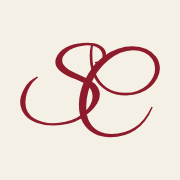
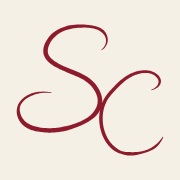
SC monogram traced from the brand sheet (#44)
The first version was drawn from a stock script font and didn't match.
This one is traced from Lewis's Secondary logo, so the S and C sit and
cross the same way. App icons regenerated.

Claude-Session: https://claude.ai/code/session_01PbxP4cWN9vx1d1DnN28Ydv

Changed region(s): [[0.0833, 0.1111, 0.9167, 0.8889]]

diff --git a/app/src/lib/logo.ts b/app/src/lib/logo.ts
@@ -1,5 +1,5 @@
 // The Sodalis Collective logos (Lewis's brand sheet, 18 Oct), as outlines so they need no fonts.
-// Primary 1a: SODALIS over a script "Collective". Secondary: the SC monogram.
+// Primary 1a: SODALIS over a script "Collective". Secondary: the SC monogram, traced from the brand sheet.
 
 export const PRIMARY_LOGO = {
   viewBox: '-2 26 245 119',
@@ -7,6 +7,6 @@ export const PRIMARY_LOGO = {
 }
 
 export const MONOGRAM = {
-  viewBox: '1.7 -9.8 159.7 159.7',
-  d: 'M41.3 109.2Q31.5 109.2 23.4 106.3Q15.2 103.4 10.2 97.8Q5.2 92.1 4.7 83.8Q4.5 80.4 5.8 76.3Q7.1 72.2 9.5 68.2Q11.8 64.1 15.1 60.8Q18.3 57.6 22 55.9Q22.3 55.7 23 55.6Q23.6 55.5 23.9 55.5Q24.5 55.5 24.5 55.8Q24.5 56.3 23 57.4Q18.8 60.7 16.1 65Q13.3 69.3 11.9 74.2Q10.5 79.1 10.5 84.1Q10.5 90 13.1 94.2Q15.6 98.5 19.9 101.2Q24.2 104 29.7 105.3Q35.2 106.6 41.2 106.6Q47.9 106.6 54.5 105.1Q61 103.6 66.4 100.8Q74.7 96.4 79.6 89.9Q84.4 83.4 84.4 77Q84.4 73.6 83 70.5Q81.5 67.4 78.3 64.9Q75.9 63 72.5 61.3Q69 59.6 65.2 58Q61.3 56.4 57.6 54.8Q53.9 53.1 51.1 51.2Q47.1 48.5 45.2 45.4Q43.4 42.3 43.4 39.2Q43.4 35.5 45.6 32Q47.7 28.5 51.5 25.6Q55.2 22.8 59.9 21.2Q64 19.8 68.8 19Q73.7 18.2 78.4 18.2Q82.3 18.2 85.9 18.7Q89.4 19.3 92.1 20.7Q95.5 22.3 97.3 24.9Q99.1 27.6 99.1 30.5Q99.1 34.5 95.5 37.5Q94.2 38.5 92.6 39.3Q91 40.2 88.8 40.8Q88.4 40.9 87.9 40.9Q86.7 40.9 86.7 40.2Q86.7 39.8 87.3 39.3Q88 38.9 89.3 38.8Q92.3 38.4 93.9 36.5Q95.4 34.6 95.4 32.1Q95.4 29.5 93.7 26.9Q91.9 24.4 88.3 22.6Q84.7 20.9 79.1 20.9Q75.9 20.9 72.1 21.6Q68.2 22.3 63.7 23.9Q58.2 25.8 54.6 29.5Q50.9 33.2 50.9 37.4Q50.9 40 52.7 42.6Q54.4 45.3 58.3 47.7Q61.6 49.7 65.8 51.6Q70 53.6 74.3 55.5Q78.6 57.5 82.1 59.7Q87.6 63.1 90 67Q92.4 70.9 92.4 75Q92.4 79.8 89.6 84.7Q86.7 89.5 82.1 93.8Q77.5 98 72 101.3Q65.6 105.1 57.6 107.2Q49.5 109.2 41.3 109.2ZM104.2 122Q94 122 86.1 117.9Q78.2 113.8 73.7 105.8Q69.3 97.8 69.3 86.1Q69.3 79.2 71.1 72.3Q72.9 65.3 76 58.9Q79.1 52.5 82.9 47.2Q81.2 40.4 81.2 32.6Q81.2 26.7 82.5 21.3Q83 19.7 84.1 19.7Q85 19.7 84.9 20.8Q84.6 23.1 84.3 25.6Q84.1 28.1 84.1 31.6Q84.1 38.1 85.3 43.9Q86.5 42.5 87.6 41.2Q92.2 36.2 98.4 31.8Q104.7 27.3 112.4 24.7Q120.1 22 128.7 22Q136.7 22 143.5 24.9Q150.2 27.9 154.3 33.4Q158.4 39 158.4 46.8Q158.4 51.8 155.7 56.9Q153.1 62.1 148.2 66.4Q143.4 70.7 136.5 73.4Q129.6 76.1 121.1 76.1Q109.9 76.1 100.6 71.1Q91.3 66.2 86.1 56.1Q81.6 64.1 79.5 72.3Q77.4 80.4 77.4 87.8Q77.4 98.6 81 105.3Q84.6 112 90.9 115.2Q97.2 118.4 105.4 118.4Q119.9 118.4 131 111.1Q142 103.7 149.2 88.4Q150.5 88.4 150.5 89.4Q143.6 106 131.5 114Q119.5 122 104.2 122ZM90.9 48.6Q89.5 50.6 88.1 52.8Q92.1 62 100.1 67.6Q108.2 73.2 120.4 73.2Q128.1 73.2 134.2 70.8Q140.3 68.4 144.5 64.5Q148.7 60.6 151 55.8Q153.2 51.1 153.2 46.3Q153.2 40.3 150 35.9Q146.8 31.4 141.3 28.9Q135.8 26.3 128.9 26.3Q122 26.3 115 29.2Q108 32.2 101.7 37.2Q95.5 42.2 90.9 48.6Z',
+  viewBox: '44.9 0.3 441.5 441.5',
+  d: 'M300.2 104.0L303.8 101.4L306.9 98.6L309.6 95.7L311.9 92.6L313.8 89.5L315.4 86.3L316.5 83.1L317.4 79.8L317.8 76.6L318.0 73.3L317.8 70.0L317.3 66.8L316.6 63.7L315.6 60.6L314.4 57.6L313.0 54.7L311.3 51.9L309.5 49.3L307.3 47.0L305.0 44.8L302.6 42.8L300.0 41.0L297.3 39.4L294.5 37.9L291.6 36.6L288.7 35.4L285.6 34.3L282.5 33.3L279.4 32.5L276.2 31.8L272.9 31.2L269.6 30.7L266.3 30.2L263.0 29.8L259.6 29.4L256.3 29.0L252.9 28.7L249.5 28.4L246.1 28.1L242.7 28.0L239.4 27.9L236.0 27.9L232.6 28.0L229.2 28.2L225.8 28.4L222.4 28.7L219.1 29.0L215.7 29.4L212.4 29.8L209.0 30.3L205.7 30.8L202.4 31.5L199.2 32.3L196.0 33.1L192.8 34.2L189.7 35.3L186.6 36.4L183.6 37.7L180.5 38.9L177.5 40.3L174.6 41.7L171.7 43.2L168.8 44.8L165.9 46.4L163.1 48.2L160.4 50.1L157.7 52.0L155.1 54.1L152.6 56.3L150.2 58.7L147.9 61.2L145.7 63.8L143.6 66.5L141.6 69.3L139.6 72.1L137.8 75.1L136.1 78.0L134.5 81.1L133.0 84.1L131.7 87.3L130.7 90.5L129.7 93.7L129.0 97.0L128.5 100.2L128.2 103.5L128.1 106.8L128.3 110.1L128.7 113.4L129.4 116.6L130.4 119.7L131.7 122.8L133.1 125.7L134.8 128.5L136.8 131.1L138.9 133.6L141.1 136.1L143.5 138.4L146.0 140.7L148.5 142.9L151.2 145.0L154.1 147.0L156.9 148.9L159.9 150.8L162.9 152.6L166.0 154.3L169.1 155.9L172.2 157.4L175.4 158.9L178.5 160.4L181.6 161.8L184.7 163.3L187.7 164.7L190.7 166.1L193.8 167.5L196.8 168.7L199.8 170.0L202.8 171.2L205.8 172.4L208.7 173.6L211.7 174.7L214.6 175.9L217.4 177.1L220.3 178.3L223.1 179.5L225.8 180.7L228.6 181.9L231.3 183.1L233.9 184.4L236.6 185.7L239.1 187.0L241.7 188.3L244.2 189.7L246.6 191.2L249.0 192.6L251.4 194.2L253.7 195.7L255.9 197.4L258.1 199.1L260.3 200.9L262.4 202.7L264.5 204.6L266.5 206.6L268.4 208.7L270.3 210.8L272.2 213.1L274.0 215.5L275.7 217.9L277.4 220.5L279.0 223.1L280.6 225.8L282.0 228.6L283.3 231.4L284.5 234.2L285.6 237.0L286.4 239.8L287.1 242.5L287.6 245.2L288.0 247.8L288.2 250.4L288.3 253.0L288.2 255.6L288.0 258.1L287.7 260.6L287.2 263.1L286.6 265.5L285.8 267.9L285.0 270.3L284.0 272.7L282.9 275.0L281.7 277.2L280.3 279.4L278.9 281.6L277.4 283.7L275.7 285.8L274.1 287.9L272.4 290.0L270.5 292.0L268.6 293.9L266.5 295.8L264.4 297.6L262.1 299.4L259.8 301.1L257.4 302.8L254.9 304.4L252.4 306.0L249.8 307.5L247.1 308.9L244.4 310.3L241.7 311.7L238.9 313.0L236.0 314.2L233.2 315.5L230.3 316.6L227.4 317.8L224.5 318.9L221.5 320.0L218.6 321.0L215.6 322.0L212.7 322.9L209.7 323.8L206.7 324.6L203.8 325.3L200.8 326.0L197.8 326.7L194.8 327.4L191.8 328.1L188.9 328.8L185.9 329.4L182.9 330.0L179.9 330.6L176.9 331.1L173.9 331.5L170.9 331.9L167.9 332.3L164.8 332.6L161.8 332.8L158.7 333.0L155.7 333.2L152.6 333.3L149.5 333.4L146.5 333.4L143.4 333.4L140.3 333.3L137.1 333.2L134.0 333.1L130.9 332.9L127.7 332.7L124.5 332.4L121.4 332.0L118.2 331.5L115.1 330.9L112.0 330.2L108.9 329.4L105.9 328.7L102.9 327.9L99.9 327.0L97.1 326.0L94.3 324.9L91.5 323.8L88.9 322.6L86.3 321.4L83.8 320.0L81.4 318.6L79.1 317.0L76.9 315.3L74.9 313.5L72.9 311.6L71.1 309.6L69.4 307.4L67.8 305.2L66.3 302.8L64.9 300.4L63.7 298.0L62.6 295.4L61.7 292.9L60.8 290.3L60.1 287.6L59.6 285.0L59.2 282.4L58.9 279.7L58.9 277.1L59.0 274.5L59.4 271.9L60.1 269.3L60.9 266.9L62.0 264.5L63.3 262.1L64.8 259.8L66.4 257.5L68.2 255.3L70.2 253.2L72.4 251.1L74.7 249.2L77.1 247.3L79.7 245.6L82.3 243.9L85.0 242.3L87.8 240.8L90.6 239.4L93.5 238.1L96.5 236.9L99.4 235.7L102.4 234.6L105.4 233.7L108.4 232.8L111.4 232.0L114.5 231.3L117.5 230.6L120.6 230.2L123.7 229.8L126.8 229.5L130.0 229.4L133.1 229.3L136.3 229.3L139.4 229.3L142.6 229.4L145.8 229.5L149.0 229.7L152.2 229.7L152.4 228.1L149.2 227.4L146.0 227.0L142.8 226.6L139.6 226.3L136.4 226.0L133.2 225.9L129.9 225.8L126.7 225.8L123.5 225.9L120.2 226.0L117.0 226.2L113.7 226.5L110.5 226.9L107.2 227.4L103.9 228.0L100.7 228.8L97.4 229.7L94.2 230.7L91.0 232.0L87.8 233.3L84.7 234.8L81.7 236.4L78.7 238.1L75.9 240.0L73.1 242.0L70.5 244.0L68.0 246.2L65.6 248.4L63.3 250.8L61.1 253.2L59.1 255.7L57.3 258.4L55.7 261.1L54.2 264.0L53.0 267.0L52.0 270.0L51.2 273.1L50.6 276.3L50.2 279.5L49.9 282.7L49.9 286.0L50.2 289.3L50.6 292.6L51.3 295.9L52.3 299.1L53.4 302.3L54.7 305.4L56.2 308.5L57.9 311.5L59.8 314.3L61.8 317.1L64.0 319.7L66.4 322.3L68.9 324.7L71.5 326.9L74.3 329.0L77.1 330.9L80.0 332.7L83.0 334.4L86.2 335.9L89.3 337.3L92.6 338.5L95.9 339.6L99.2 340.6L102.6 341.5L106.0 342.3L109.4 343.0L112.8 343.5L116.3 344.0L119.7 344.4L123.1 344.9L126.4 345.3L129.8 345.7L133.1 346.0L136.5 346.3L139.8 346.5L143.1 346.6L146.4 346.6L149.7 346.6L153.0 346.5L156.3 346.4L159.6 346.2L162.8 346.0L166.1 345.7L169.3 345.3L172.5 344.9L175.7 344.4L178.9 343.9L182.1 343.4L185.3 342.9L188.5 342.3L191.7 341.7L194.8 340.9L198.0 340.2L201.1 339.3L204.2 338.3L207.2 337.4L210.3 336.3L213.3 335.2L216.4 334.2L219.4 333.1L222.5 332.0L225.5 330.8L228.6 329.7L231.6 328.5L234.6 327.2L237.6 326.0L240.6 324.7L243.6 323.3L246.6 321.9L249.5 320.5L252.4 319.0L255.3 317.4L258.1 315.8L260.9 314.2L263.7 312.5L266.4 310.7L269.1 308.9L271.7 307.0L274.2 305.1L276.7 303.1L279.1 301.0L281.5 298.8L283.8 296.6L286.0 294.2L287.9 291.7L289.8 289.2L291.6 286.5L293.2 283.8L294.7 281.0L296.1 278.1L297.3 275.2L298.4 272.2L299.4 269.1L300.1 266.0L300.7 262.8L301.2 259.6L301.5 256.3L301.6 253.0L301.5 249.7L301.2 246.3L300.7 242.9L300.0 239.5L299.1 236.1L298.0 232.7L296.8 229.3L295.4 226.0L293.9 222.7L292.2 219.5L290.5 216.4L288.6 213.4L286.7 210.4L284.7 207.6L282.6 204.9L280.4 202.2L278.2 199.7L276.0 197.3L273.7 195.0L271.3 192.8L268.9 190.7L266.4 188.7L263.9 186.8L261.3 184.9L258.7 183.1L256.1 181.4L253.5 179.8L250.8 178.2L248.0 176.7L245.3 175.2L242.5 173.8L239.7 172.4L236.9 171.1L234.0 169.8L231.2 168.5L228.3 167.3L225.4 166.0L222.5 164.8L219.6 163.6L216.6 162.4L213.7 161.2L210.7 160.1L207.8 158.9L204.8 157.7L201.8 156.4L198.9 155.2L195.9 154.0L192.9 152.8L189.9 151.6L186.9 150.3L183.9 148.9L181.0 147.5L178.1 145.9L175.2 144.4L172.3 142.7L169.6 141.1L166.8 139.5L164.2 137.8L161.6 136.1L159.1 134.3L156.8 132.5L154.6 130.8L152.5 128.9L150.5 127.0L148.8 125.1L147.3 123.1L145.9 121.2L144.7 119.2L143.7 117.2L142.9 115.2L142.2 113.2L141.8 111.1L141.5 108.9L141.4 106.6L141.4 104.3L141.7 101.9L142.1 99.5L142.6 96.9L143.3 94.4L144.2 91.9L145.2 89.3L146.3 86.7L147.5 84.1L148.8 81.5L150.3 79.0L152.0 76.6L153.7 74.2L155.6 71.9L157.5 69.7L159.4 67.6L161.5 65.5L163.5 63.5L165.6 61.6L167.8 59.7L170.0 57.9L172.3 56.2L174.7 54.5L177.2 52.9L179.7 51.5L182.3 50.1L184.9 48.8L187.7 47.6L190.4 46.5L193.3 45.5L196.2 44.6L199.1 43.8L202.0 43.0L205.0 42.2L208.0 41.4L211.0 40.7L214.1 40.1L217.2 39.5L220.3 39.0L223.4 38.6L226.6 38.3L229.8 38.0L233.0 37.8L236.2 37.7L239.5 37.6L242.7 37.5L245.9 37.4L249.2 37.4L252.4 37.4L255.7 37.5L258.9 37.7L262.1 37.9L265.3 38.2L268.4 38.6L271.5 39.1L274.5 39.7L277.4 40.4L280.3 41.2L283.1 42.1L285.8 43.0L288.4 44.0L290.9 45.1L293.3 46.4L295.6 47.8L297.7 49.3L299.7 50.9L301.6 52.7L303.4 54.5L305.2 56.5L306.9 58.5L308.4 60.8L309.7 63.1L310.8 65.6L311.7 68.1L312.3 70.8L312.7 73.5L312.8 76.3L312.7 79.1L312.3 82.0L311.5 84.9L310.4 87.9L309.0 90.8L307.1 93.7L304.8 96.7L302.1 99.5L299.0 102.5ZM446.2 221.8L449.3 221.0L452.1 220.1L454.7 219.0L457.2 217.9L459.5 216.7L461.7 215.4L463.7 214.1L465.5 212.7L467.2 211.2L468.7 209.6L470.1 208.0L471.2 206.3L472.2 204.5L473.0 202.6L473.7 200.8L474.1 198.9L474.4 197.0L474.5 195.0L474.4 193.1L474.0 191.2L473.6 189.4L473.0 187.6L472.2 185.8L471.4 184.2L470.4 182.5L469.3 181.0L468.1 179.4L466.8 178.0L465.4 176.6L463.9 175.3L462.4 174.1L460.8 172.9L459.2 171.8L457.5 170.7L455.8 169.8L454.0 168.8L452.2 168.0L450.4 167.2L448.6 166.5L446.7 165.8L444.9 165.2L443.0 164.7L441.0 164.3L439.1 163.9L437.1 163.6L435.2 163.4L433.2 163.2L431.2 163.1L429.2 163.0L427.2 163.0L425.2 163.0L423.2 163.1L421.2 163.2L419.2 163.4L417.1 163.6L415.1 163.8L413.1 164.1L411.1 164.4L409.1 164.7L407.1 165.1L405.1 165.6L403.1 166.1L401.1 166.6L399.2 167.2L397.2 167.9L395.3 168.6L393.4 169.3L391.5 170.0L389.7 170.8L387.8 171.6L386.0 172.5L384.2 173.3L382.4 174.2L380.7 175.2L379.0 176.1L377.3 177.1L375.6 178.1L373.9 179.1L372.3 180.2L370.6 181.3L369.0 182.3L367.4 183.5L365.9 184.6L364.3 185.7L362.8 186.9L361.2 188.0L359.7 189.2L358.2 190.4L356.6 191.5L355.1 192.7L353.7 194.0L352.2 195.3L350.8 196.5L349.4 197.8L348.0 199.1L346.6 200.5L345.3 201.8L343.9 203.1L342.5 204.4L341.2 205.8L339.9 207.1L338.6 208.5L337.2 209.8L335.9 211.2L334.6 212.6L333.4 213.9L332.1 215.3L330.8 216.6L329.5 218.0L328.3 219.4L327.0 220.7L325.7 222.1L324.5 223.5L323.2 224.9L322.0 226.4L320.8 227.8L319.6 229.2L318.4 230.7L317.2 232.1L316.0 233.6L314.9 235.1L313.8 236.7L312.7 238.2L311.6 239.8L310.6 241.4L309.5 243.0L308.5 244.6L307.6 246.2L306.6 247.9L305.7 249.6L304.8 251.3L304.0 253.0L303.2 254.8L302.4 256.5L301.6 258.3L300.9 260.1L300.2 261.9L299.6 263.7L298.9 265.5L298.3 267.3L297.8 269.2L297.2 271.1L296.7 272.9L296.2 274.8L295.8 276.7L295.4 278.6L295.0 280.5L294.6 282.4L294.3 284.4L294.0 286.3L293.7 288.3L293.5 290.2L293.3 292.2L293.1 294.1L293.0 296.1L292.9 298.1L292.8 300.1L292.7 302.0L292.7 304.0L292.7 306.0L292.7 308.0L292.8 310.0L292.9 312.0L293.0 314.0L293.2 316.0L293.3 318.0L293.6 319.9L293.8 321.9L294.1 323.9L294.4 325.9L294.7 327.9L295.1 329.8L295.4 331.8L295.9 333.7L296.3 335.7L296.8 337.6L297.3 339.6L297.8 341.5L298.4 343.4L299.0 345.3L299.6 347.2L300.2 349.1L300.9 351.0L301.6 352.8L302.3 354.7L303.1 356.5L303.9 358.3L304.7 360.1L305.6 361.9L306.4 363.7L307.3 365.4L308.3 367.1L309.2 368.8L310.2 370.5L311.2 372.2L312.3 373.9L313.3 375.5L314.4 377.1L315.6 378.7L316.7 380.2L317.9 381.8L319.1 383.3L320.4 384.8L321.6 386.2L322.9 387.6L324.3 389.0L325.6 390.4L327.0 391.7L328.4 393.1L329.9 394.3L331.3 395.6L332.8 396.8L334.3 398.0L335.9 399.1L337.5 400.1L339.2 401.1L340.8 402.1L342.5 403.0L344.3 403.8L346.0 404.7L347.8 405.4L349.6 406.2L351.4 406.9L353.2 407.6L355.0 408.2L356.9 408.8L358.8 409.5L360.6 410.1L362.5 410.6L364.5 411.2L366.4 411.7L368.4 412.2L370.4 412.6L372.4 413.0L374.4 413.4L376.5 413.7L378.6 413.9L380.6 414.1L382.7 414.2L384.8 414.2L386.9 414.1L389.0 414.0L391.1 413.9L393.2 413.7L395.3 413.4L397.4 413.1L399.5 412.8L401.6 412.4L403.6 412.0L405.7 411.5L407.7 411.1L409.7 410.6L411.8 410.1L413.8 409.6L415.7 409.1L417.7 408.5L419.6 408.0L421.6 407.4L423.5 406.9L425.4 406.4L427.3 405.8L429.1 405.3L431.0 404.7L432.8 404.1L434.6 403.5L436.4 402.9L438.1 402.3L439.9 401.6L441.6 400.9L443.3 400.2L444.9 399.4L446.6 398.6L448.2 397.8L449.8 396.9L451.4 396.0L452.9 395.0L454.5 394.1L456.0 393.1L457.5 392.0L459.0 390.9L460.4 389.8L461.8 388.5L463.2 387.2L464.5 385.9L465.8 384.5L467.1 383.1L468.3 381.6L469.5 380.0L470.7 378.5L471.9 376.8L473.0 375.1L474.1 373.4L475.3 371.6L476.4 369.8L477.4 368.0L478.5 366.1L479.5 364.1L480.5 362.0L481.4 359.9L479.7 358.9L478.2 360.7L477.0 362.5L475.7 364.3L474.4 366.0L473.2 367.7L471.9 369.2L470.6 370.8L469.3 372.2L468.0 373.6L466.7 375.0L465.3 376.3L464.0 377.5L462.7 378.7L461.3 379.9L460.0 381.0L458.6 382.1L457.3 383.1L455.9 384.1L454.6 385.2L453.3 386.2L451.9 387.2L450.5 388.1L449.1 389.0L447.7 389.9L446.3 390.7L444.8 391.5L443.3 392.3L441.8 393.1L440.3 393.8L438.8 394.5L437.2 395.2L435.6 395.9L434.0 396.6L432.3 397.3L430.6 397.9L428.9 398.5L427.2 399.1L425.4 399.7L423.6 400.2L421.8 400.7L419.9 401.2L418.1 401.6L416.2 402.0L414.2 402.3L412.3 402.6L410.4 402.9L408.4 403.1L406.4 403.3L404.5 403.5L402.5 403.7L400.5 403.8L398.5 403.9L396.6 403.9L394.6 404.0L392.6 404.0L390.7 404.0L388.7 404.0L386.8 404.0L384.9 403.9L383.0 403.9L381.1 403.9L379.2 403.8L377.3 403.7L375.5 403.6L373.6 403.5L371.8 403.4L370.0 403.2L368.2 403.0L366.4 402.7L364.6 402.4L362.9 402.0L361.2 401.5L359.5 401.0L357.9 400.4L356.3 399.8L354.7 399.0L353.2 398.3L351.7 397.4L350.2 396.6L348.8 395.7L347.3 394.8L345.9 393.8L344.6 392.8L343.2 391.8L341.9 390.8L340.5 389.8L339.2 388.7L337.9 387.7L336.6 386.6L335.3 385.4L334.1 384.3L332.9 383.1L331.7 381.9L330.5 380.6L329.3 379.4L328.2 378.1L327.1 376.7L326.0 375.4L324.9 374.0L323.9 372.6L322.9 371.2L321.9 369.7L320.9 368.3L320.0 366.8L319.0 365.3L318.2 363.7L317.3 362.2L316.4 360.6L315.6 359.0L314.8 357.4L314.0 355.8L313.3 354.1L312.6 352.5L311.9 350.8L311.2 349.1L310.6 347.4L309.9 345.7L309.3 343.9L308.8 342.2L308.2 340.4L307.7 338.7L307.2 336.9L306.7 335.1L306.3 333.3L305.9 331.5L305.5 329.7L305.2 327.9L304.8 326.1L304.5 324.3L304.2 322.4L304.0 320.6L303.8 318.8L303.6 316.9L303.4 315.1L303.3 313.3L303.1 311.4L303.1 309.6L303.0 307.7L303.0 305.9L303.0 304.1L303.0 302.2L303.0 300.4L303.1 298.6L303.2 296.8L303.4 295.0L303.5 293.2L303.7 291.4L303.9 289.6L304.2 287.8L304.5 286.0L304.8 284.2L305.1 282.5L305.4 280.7L305.8 279.0L306.2 277.3L306.7 275.5L307.1 273.8L307.6 272.1L308.1 270.5L308.7 268.8L309.3 267.1L309.9 265.5L310.5 263.8L311.1 262.2L311.8 260.6L312.5 259.0L313.3 257.5L314.0 255.9L314.8 254.4L315.6 252.9L316.5 251.4L317.3 249.9L318.2 248.4L319.2 247.0L320.1 245.5L321.1 244.1L322.1 242.7L323.1 241.3L324.2 239.9L325.3 238.5L326.4 237.2L327.5 235.8L328.6 234.4L329.8 233.1L331.0 231.7L332.2 230.4L333.4 229.0L334.6 227.7L335.8 226.3L337.1 225.0L338.3 223.7L339.6 222.3L340.8 221.0L342.1 219.6L343.4 218.3L344.6 217.0L345.9 215.7L347.2 214.3L348.5 213.0L349.8 211.7L351.1 210.4L352.4 209.2L353.7 207.9L355.1 206.6L356.4 205.4L357.7 204.1L359.1 202.9L360.5 201.7L361.8 200.5L363.2 199.3L364.5 198.0L365.9 196.8L367.2 195.6L368.7 194.5L370.1 193.4L371.5 192.3L373.0 191.2L374.5 190.2L376.0 189.1L377.5 188.1L379.0 187.1L380.5 186.2L382.1 185.2L383.6 184.3L385.2 183.4L386.8 182.5L388.4 181.7L390.1 180.9L391.7 180.1L393.4 179.3L395.1 178.5L396.8 177.8L398.5 177.1L400.3 176.5L402.0 175.9L403.8 175.3L405.6 174.7L407.4 174.1L409.2 173.6L411.0 173.1L412.8 172.6L414.6 172.2L416.4 171.8L418.2 171.5L420.0 171.2L421.8 171.0L423.7 170.8L425.5 170.7L427.3 170.7L429.1 170.7L430.8 170.7L432.6 170.8L434.4 171.0L436.1 171.2L437.8 171.5L439.5 171.8L441.2 172.1L442.8 172.5L444.4 173.0L446.1 173.5L447.6 174.1L449.2 174.7L450.7 175.5L452.2 176.2L453.7 177.1L455.1 178.0L456.4 178.9L457.7 180.0L459.0 181.0L460.1 182.1L461.2 183.2L462.2 184.4L463.2 185.5L464.0 186.7L464.8 187.9L465.4 189.1L466.0 190.4L466.5 191.6L466.9 192.8L467.1 194.1L467.2 195.4L467.3 196.6L467.3 198.0L467.2 199.3L466.9 200.7L466.5 202.1L466.0 203.5L465.3 205.0L464.5 206.5L463.5 208.0L462.4 209.5L461.0 211.0L459.5 212.5L457.7 213.9L455.7 215.3L453.6 216.7L451.2 218.0L448.6 219.2L445.8 220.4Z',
 }
